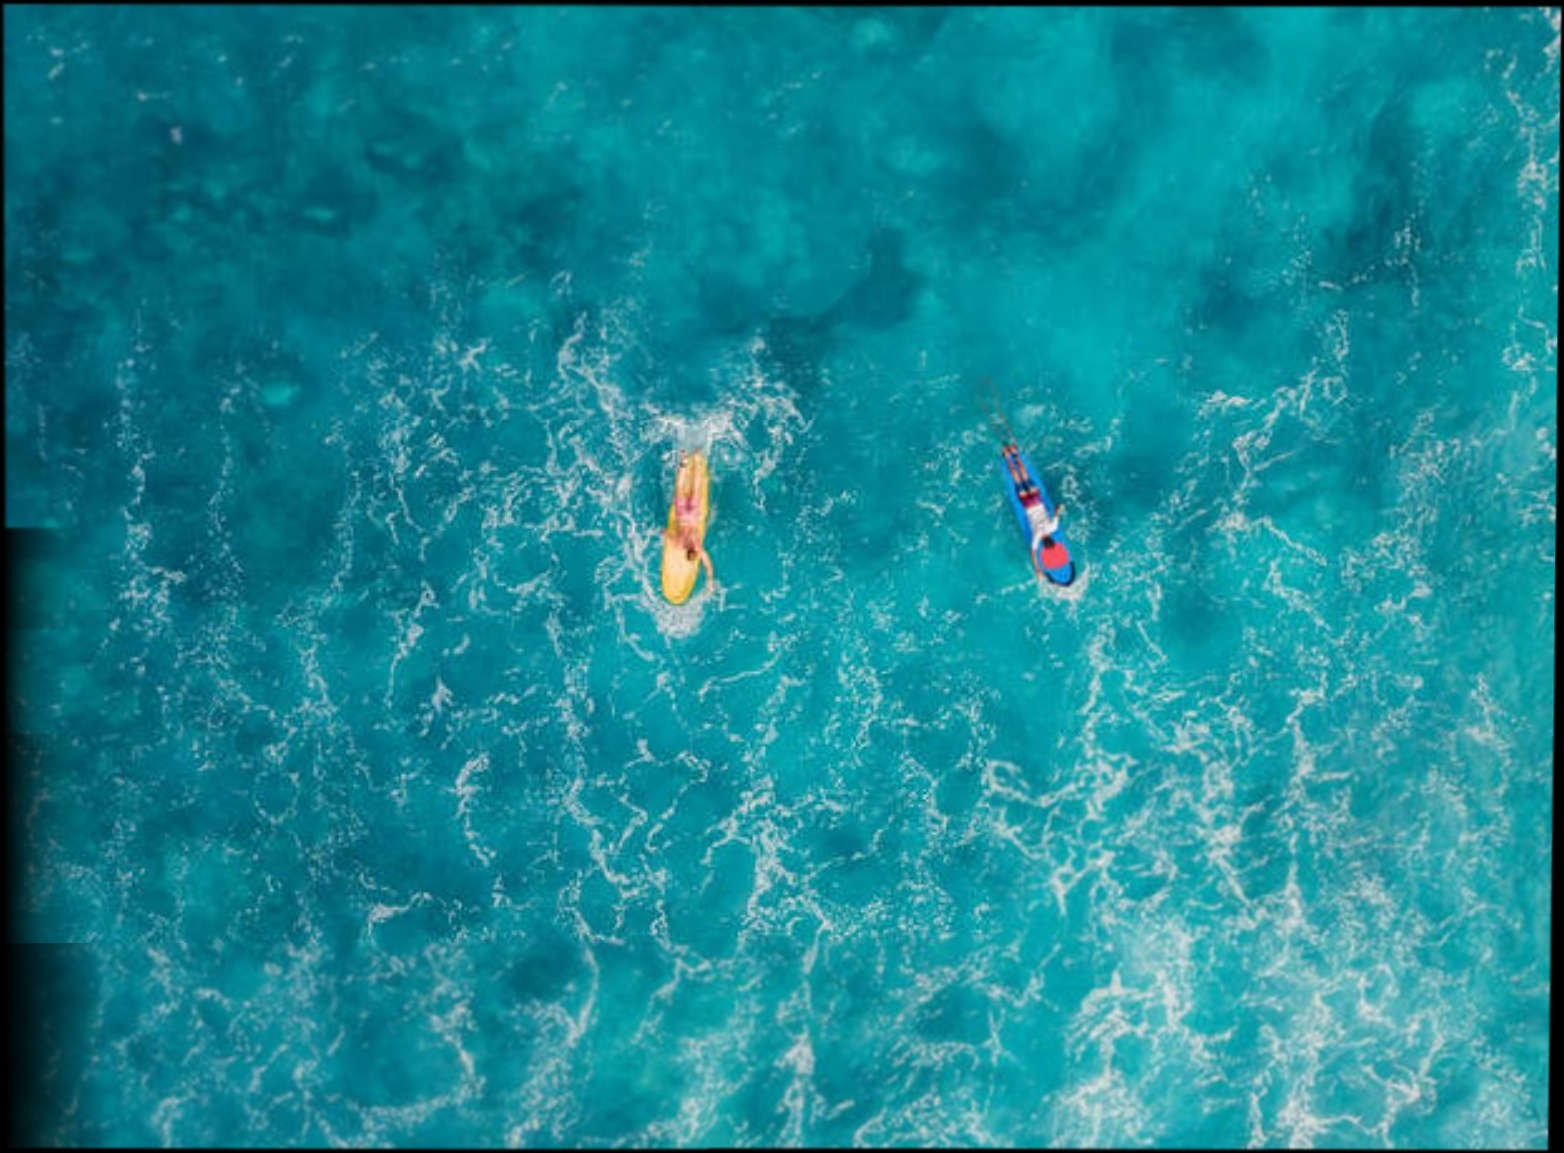
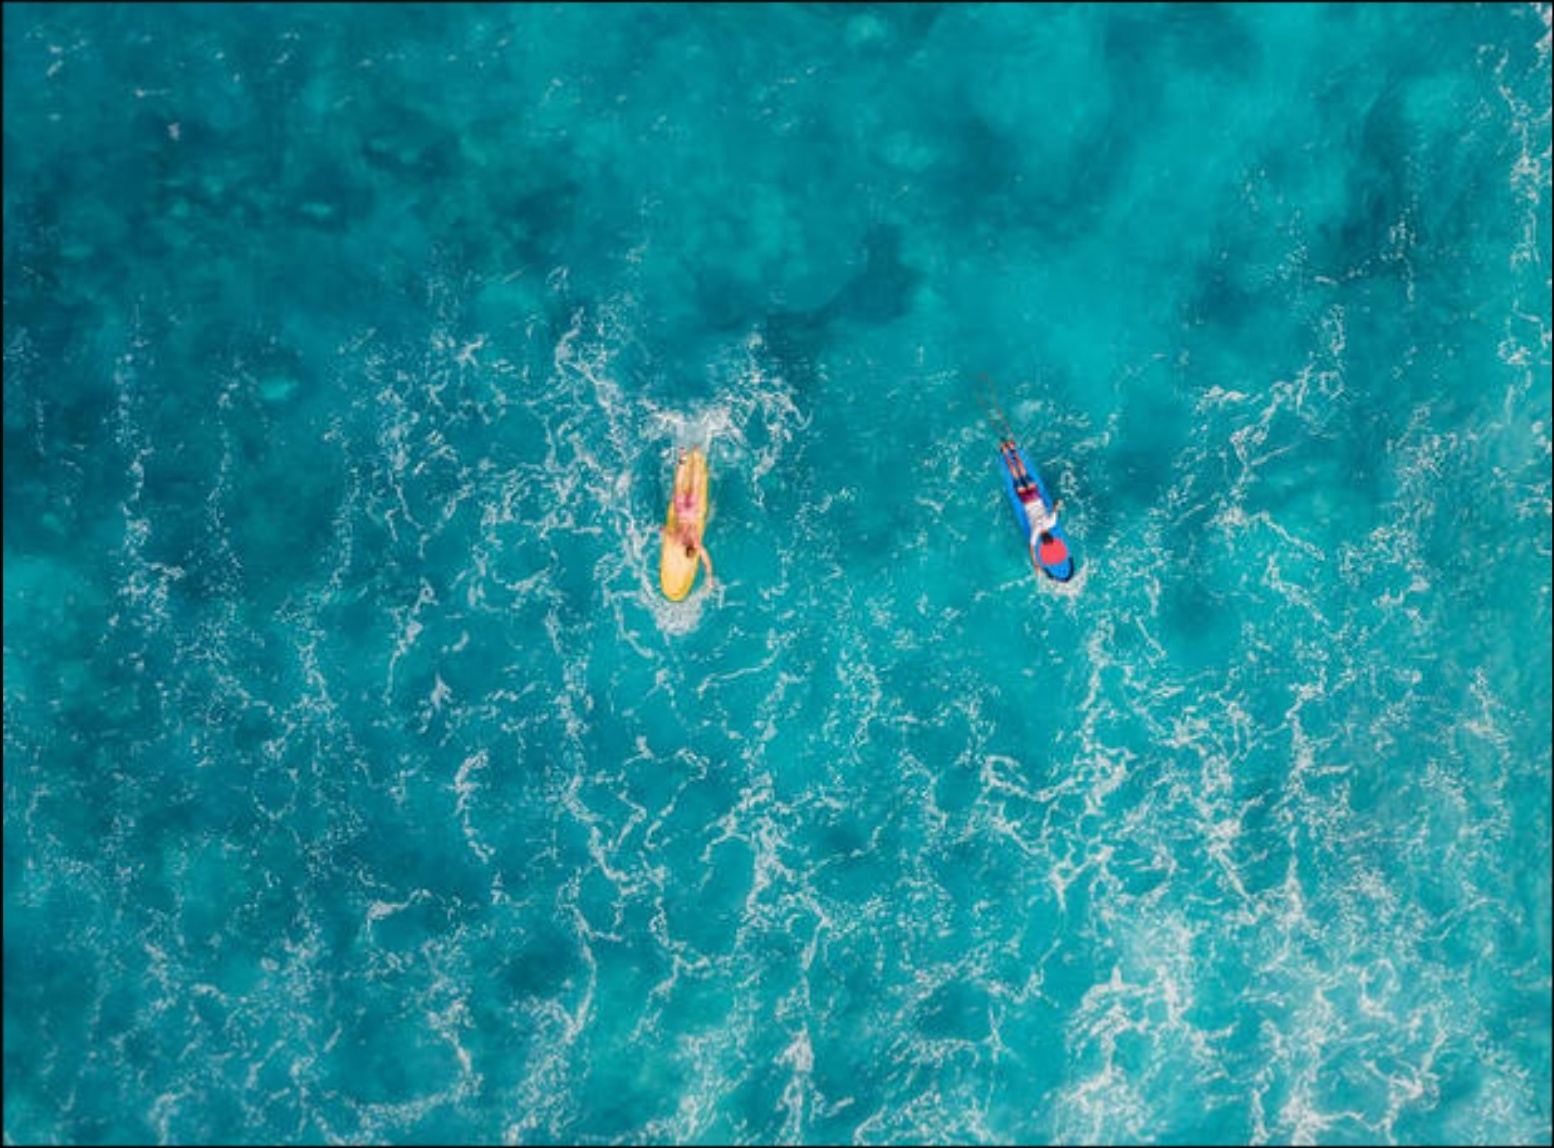
regler les zones noirs pour images static

diff --git a/image_stitching.py b/image_stitching.py
@@ -227,18 +227,18 @@ class ImageStitcher:
         corners = np.float32([[0,0], [0,h1], [w1,h1], [w1,0]]).reshape(-1,1,2)
         corners_transformed = cv2.perspectiveTransform(corners, H)
         
-        # 计算输出图像的尺寸
-        xmin = min(corners_transformed[:,:,0].min(), 0)
-        ymin = min(corners_transformed[:,:,1].min(), 0)
-        xmax = max(corners_transformed[:,:,0].max(), w2)
-        ymax = max(corners_transformed[:,:,1].max(), h2)
+        # 计算输出图像的尺寸，确保包含所有图像区域，并增加30%的边距
+        xmin = int(min(corners_transformed[:,:,0].min(), 0) * 1.3)
+        ymin = int(min(corners_transformed[:,:,1].min(), 0) * 1.3)
+        xmax = int(max(corners_transformed[:,:,0].max(), w2) * 1.3)
+        ymax = int(max(corners_transformed[:,:,1].max(), h2) * 1.3)
         
-        # 调整变换矩阵以消除黑边
+        # 调整变换矩阵
         offset = [-xmin, -ymin]
         H_adjusted = np.array([[1,0,offset[0]], [0,1,offset[1]], [0,0,1]]) @ H
         
         # 创建输出图像
-        output_size = (int(xmax-xmin), int(ymax-ymin))
+        output_size = (xmax-xmin, ymax-ymin)
         result = cv2.warpPerspective(img1, H_adjusted, output_size)
         
         # 将第二张图片复制到结果中
@@ -247,18 +247,18 @@ class ImageStitcher:
         y_end = min(y_offset + h2, result.shape[0])
         x_end = min(x_offset + w2, result.shape[1])
         
-        # 创建简单的alpha混合区域
-        overlap_width = 100  # 重叠区域宽度
         for y in range(y_offset, y_end):
             for x in range(x_offset, x_end):
-                if x - x_offset < overlap_width:
-                    # 在重叠区域使用渐变权重
-                    alpha = (x - x_offset) / overlap_width
-                    if 0 <= y-y_offset < h2 and 0 <= x-x_offset < w2:
-                        result[y,x] = (1-alpha) * result[y,x] + alpha * img2[y-y_offset,x-x_offset]
-                else:
-                    if 0 <= y-y_offset < h2 and 0 <= x-x_offset < w2:
-                        result[y,x] = img2[y-y_offset,x-x_offset]
+                if 0 <= y-y_offset < h2 and 0 <= x-x_offset < w2:
+                    result[y,x] = img2[y-y_offset,x-x_offset]
+        
+        # 裁剪黑边
+        gray = cv2.cvtColor(result, cv2.COLOR_BGR2GRAY)
+        _, thresh = cv2.threshold(gray, 1, 255, cv2.THRESH_BINARY)
+        contours, _ = cv2.findContours(thresh, cv2.RETR_EXTERNAL, cv2.CHAIN_APPROX_SIMPLE)
+        if contours:
+            x, y, w, h = cv2.boundingRect(max(contours, key=cv2.contourArea))
+            result = result[y:y+h, x:x+w]
         
         return result
 
@@ -311,6 +311,8 @@ class ImageStitcher:
             
             # 创建全景图
             result = self.create_panorama(result, images[i], H)
+            # 保存中间结果
+            cv2.imwrite(f'intermediate_result_{i}.jpg', result)
             print(f"成功拼接图片 {i}")
         
         return result
